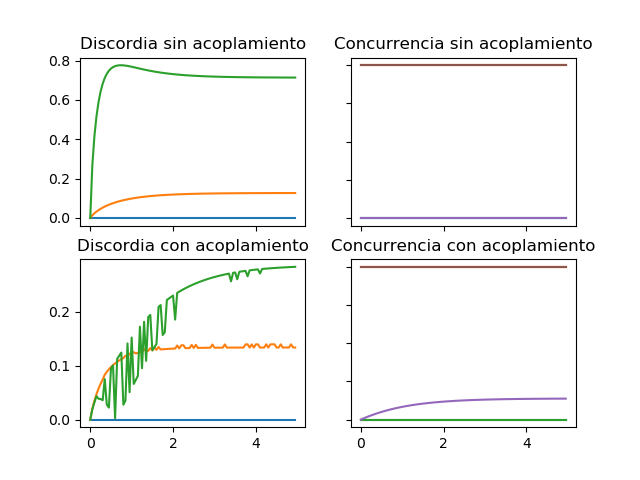
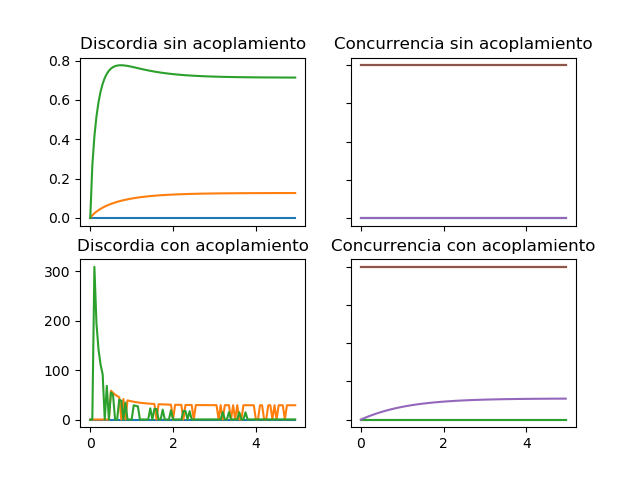
Cambio generado con script

Changed region(s): [[0.0625, 0.5625, 0.4688, 0.875], [0.3125, 0.5625, 0.4062, 0.5938], [0.4062, 0.5312, 0.4688, 0.5625]]

diff --git a/master.py b/master.py
@@ -48,10 +48,10 @@ def me3(IN,RES):
            ent_comp[1]=entropy_cond(a.matrix_element(tensor(basis(2,0),basis(2,0)).dag(),tensor(basis(2,0),basis(2,0)))+a.matrix_element(tensor(basis(2,1),basis(2,0)).dag(),tensor(basis(2,1),basis(2,0))),a.matrix_element(tensor(basis(2,0),basis(2,1)).dag(),tensor(basis(2,0),basis(2,1)))+a.matrix_element(tensor(basis(2,1),basis(2,1)).dag(),tensor(basis(2,1),basis(2,1))),(a.matrix_element(tensor(basis(2,0),basis(2,0)).dag(),tensor(basis(2,0),basis(2,0)))-a.matrix_element(tensor(basis(2,1),basis(2,0)).dag(),tensor(basis(2,1),basis(2,0))))/(a.matrix_element(tensor(basis(2,0),basis(2,1)).dag(),tensor(basis(2,0),basis(2,1)))+a.matrix_element(tensor(basis(2,1),basis(2,1)).dag(),tensor(basis(2,1),basis(2,1)))),(a.matrix_element(tensor(basis(2,0),basis(2,1)).dag(),tensor(basis(2,0),basis(2,1)))-a.matrix_element(tensor(basis(2,1),basis(2,1)).dag(),tensor(basis(2,1),basis(2,1))))/(a.matrix_element(tensor(basis(2,0),basis(2,0)).dag(),tensor(basis(2,0),basis(2,0)))+a.matrix_element(tensor(basis(2,1),basis(2,0)).dag(),tensor(basis(2,1),basis(2,0)))))
         ent_comp[2]=entropy_cond(0.5,0.5,np.sqrt(((a.matrix_element(tensor(basis(2,0),basis(2,0)).dag(),tensor(basis(2,0),basis(2,0)))-a.matrix_element(tensor(basis(2,1),basis(2,0)).dag(),tensor(basis(2,1),basis(2,0))))+(a.matrix_element(tensor(basis(2,0),basis(2,1)).dag(),tensor(basis(2,0),basis(2,1)))-a.matrix_element(tensor(basis(2,1),basis(2,1)).dag(),tensor(basis(2,1),basis(2,1)))))**2+4*(a.matrix_element(tensor(basis(2,0),basis(2,0)).dag(),tensor(basis(2,1),basis(2,1)))+a.matrix_element(tensor(basis(2,0),basis(2,1)).dag(),tensor(basis(2,1),basis(2,0))))**2),np.sqrt(((a.matrix_element(tensor(basis(2,0),basis(2,0)).dag(),tensor(basis(2,0),basis(2,0)))-a.matrix_element(tensor(basis(2,1),basis(2,0)).dag(),tensor(basis(2,1),basis(2,0))))+(a.matrix_element(tensor(basis(2,0),basis(2,1)).dag(),tensor(basis(2,0),basis(2,1)))-a.matrix_element(tensor(basis(2,1),basis(2,1)).dag(),tensor(basis(2,1),basis(2,1)))))**2+4*(a.matrix_element(tensor(basis(2,0),basis(2,0)).dag(),tensor(basis(2,1),basis(2,1)))-a.matrix_element(tensor(basis(2,0),basis(2,1)).dag(),tensor(basis(2,1),basis(2,0))))**2))
         ent_comp[3]=entropy_cond(0.5,0.5,np.sqrt(((a.matrix_element(tensor(basis(2,0),basis(2,0)).dag(),tensor(basis(2,0),basis(2,0)))-a.matrix_element(tensor(basis(2,1),basis(2,0)).dag(),tensor(basis(2,1),basis(2,0))))+(a.matrix_element(tensor(basis(2,0),basis(2,1)).dag(),tensor(basis(2,0),basis(2,1)))-a.matrix_element(tensor(basis(2,1),basis(2,1)).dag(),tensor(basis(2,1),basis(2,1)))))**2+4*(a.matrix_element(tensor(basis(2,0),basis(2,0)).dag(),tensor(basis(2,1),basis(2,1)))-a.matrix_element(tensor(basis(2,0),basis(2,1)).dag(),tensor(basis(2,1),basis(2,0))))**2),np.sqrt(((a.matrix_element(tensor(basis(2,0),basis(2,0)).dag(),tensor(basis(2,0),basis(2,0)))-a.matrix_element(tensor(basis(2,1),basis(2,0)).dag(),tensor(basis(2,1),basis(2,0))))+(a.matrix_element(tensor(basis(2,0),basis(2,1)).dag(),tensor(basis(2,0),basis(2,1)))-a.matrix_element(tensor(basis(2,1),basis(2,1)).dag(),tensor(basis(2,1),basis(2,1)))))**2+4*(a.matrix_element(tensor(basis(2,0),basis(2,0)).dag(),tensor(basis(2,1),basis(2,1)))-a.matrix_element(tensor(basis(2,0),basis(2,1)).dag(),tensor(basis(2,1),basis(2,0))))**2))              
-        if min(ent_comp)<0:
-           e=0
-        else:
-           e= min(ent_comp)
+#        if min(ent_comp)<0:
+#           e=0
+#        else:
+        e= min(ent_comp)
         return e
     for i in range (0,100):
         mat=Qobj(sol.states[i])
